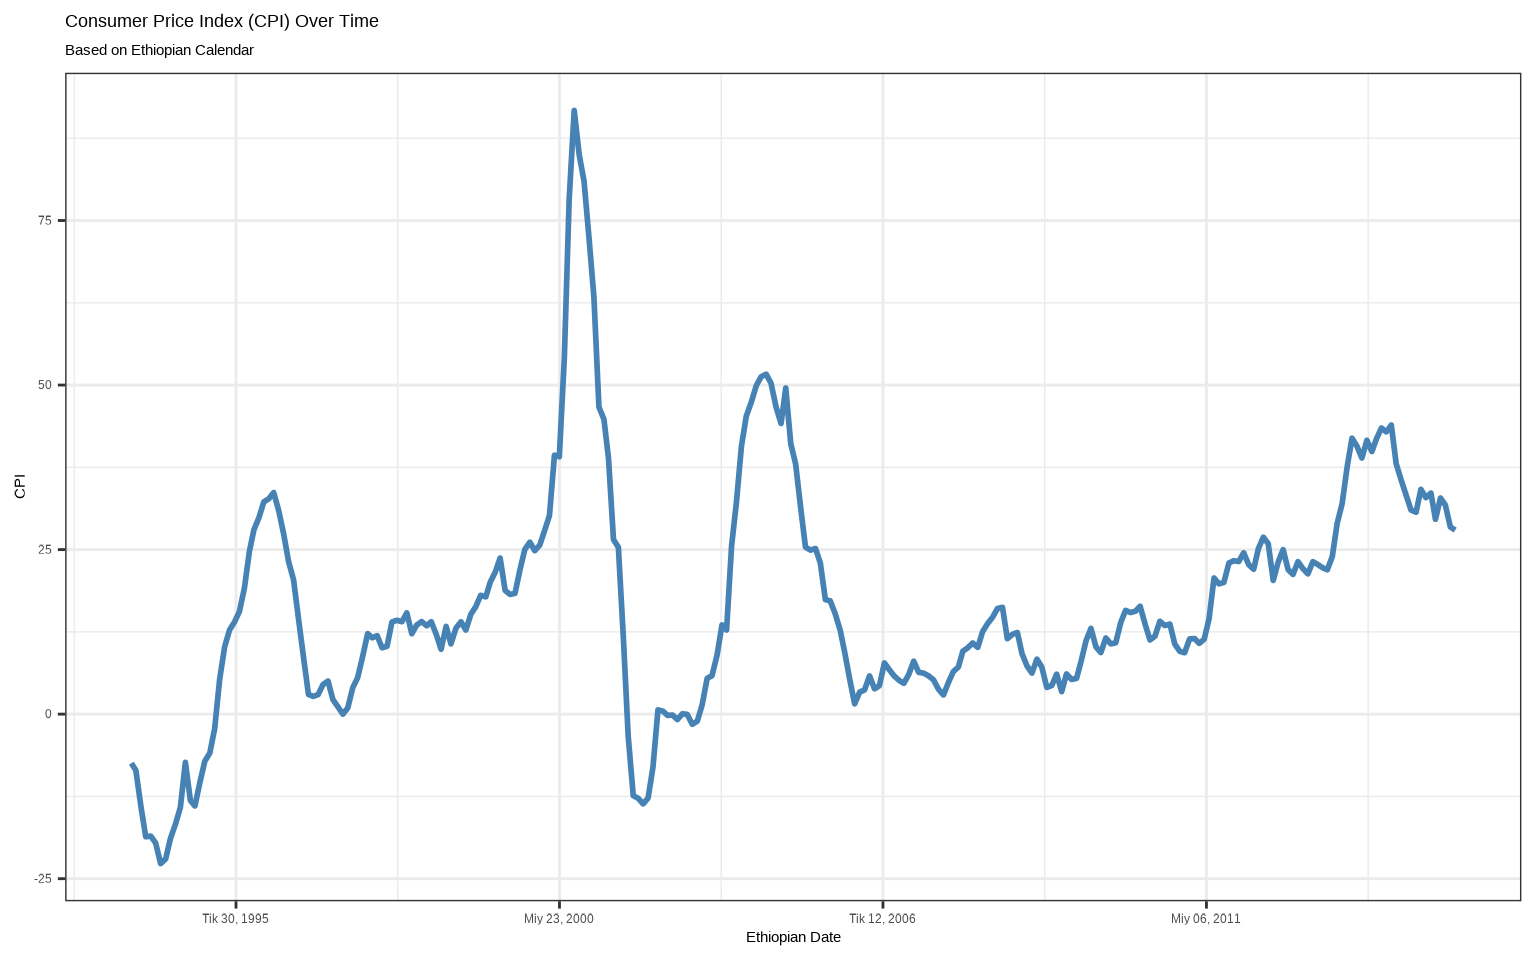
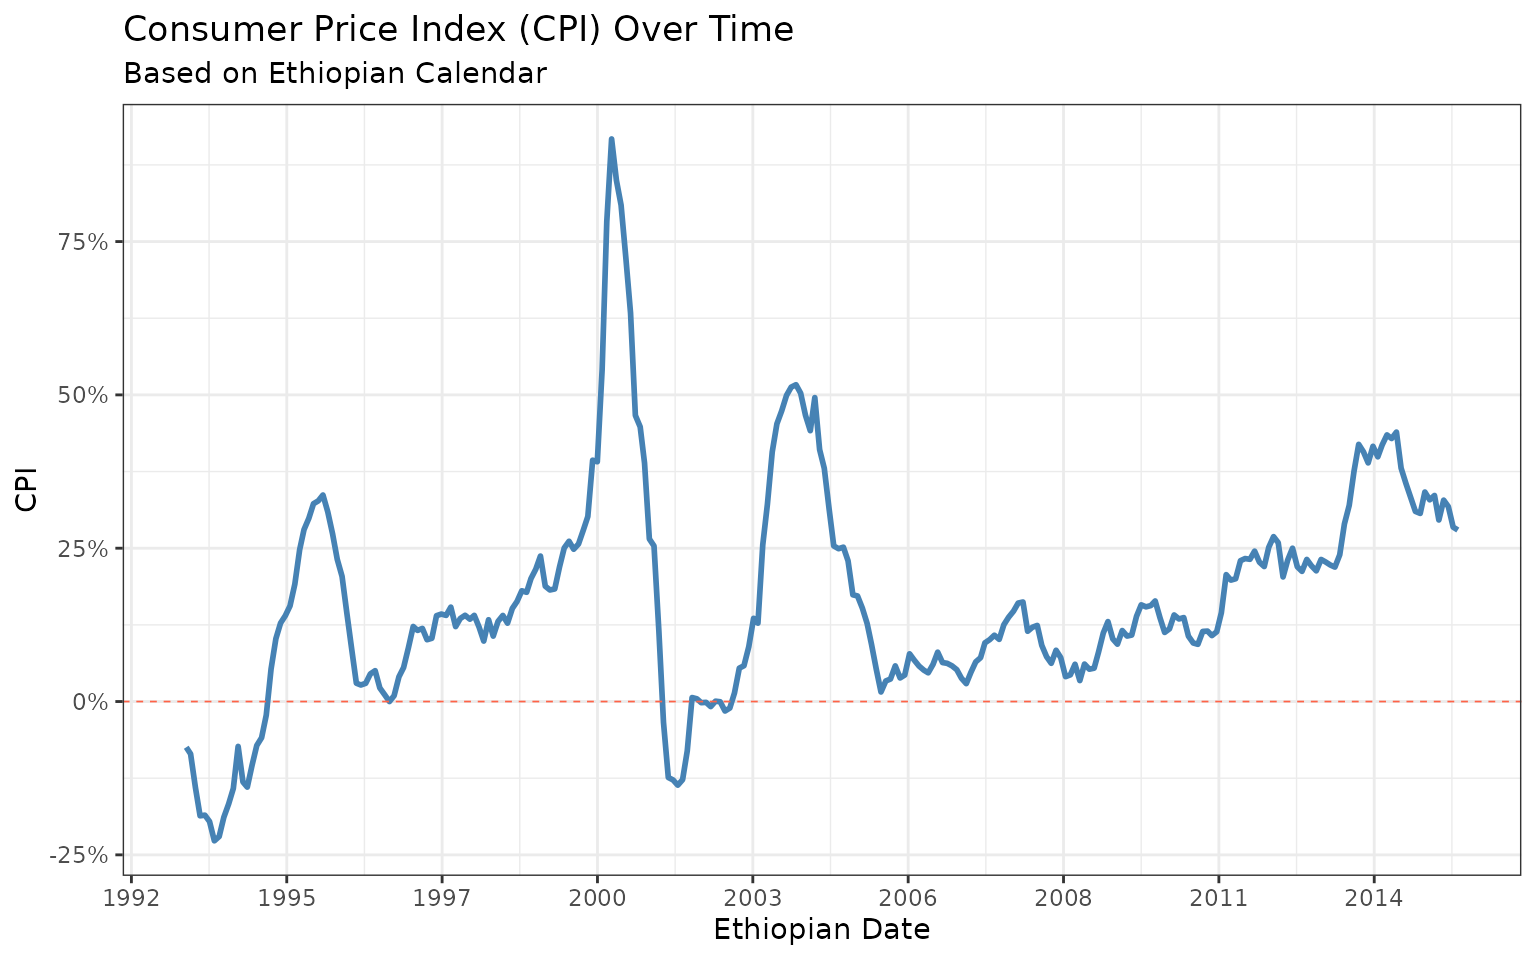
Deploying to gh-pages from @ GutUrago/ethiodate@056ab6d0eb4e3ad7c6320487f609c9a954fcff3f 🚀

diff --git a/articles/ggplot.html b/articles/ggplot.html
@@ -111,12 +111,6 @@ Consumer Price Index (CPI) data from 2001 onward.</p>
 <code class="sourceCode R"><span><span class="kw"><a href="https://rdrr.io/r/base/library.html" class="external-link">library</a></span><span class="op">(</span><span class="va"><a href="https://guturago.github.io/ethiodate/">ethiodate</a></span><span class="op">)</span></span>
 <span><span class="kw"><a href="https://rdrr.io/r/base/library.html" class="external-link">library</a></span><span class="op">(</span><span class="va"><a href="https://ggplot2.tidyverse.org" class="external-link">ggplot2</a></span><span class="op">)</span></span>
 <span><span class="kw"><a href="https://rdrr.io/r/base/library.html" class="external-link">library</a></span><span class="op">(</span><span class="va"><a href="https://dplyr.tidyverse.org" class="external-link">dplyr</a></span><span class="op">)</span></span>
-<span></span>
-<span><span class="kw"><a href="https://rdrr.io/r/base/library.html" class="external-link">library</a></span><span class="op">(</span><span class="va"><a href="https://github.com/yixuan/showtext" class="external-link">showtext</a></span><span class="op">)</span></span>
-<span><span class="kw"><a href="https://rdrr.io/r/base/library.html" class="external-link">library</a></span><span class="op">(</span><span class="va"><a href="https://github.com/yixuan/sysfonts" class="external-link">sysfonts</a></span><span class="op">)</span></span>
-<span><span class="fu"><a href="https://rdrr.io/pkg/sysfonts/man/font_add_google.html" class="external-link">font_add_google</a></span><span class="op">(</span><span class="st">"Noto Serif Ethiopic"</span><span class="op">)</span></span>
-<span><span class="fu"><a href="https://rdrr.io/pkg/showtext/man/showtext_auto.html" class="external-link">showtext_auto</a></span><span class="op">(</span><span class="op">)</span></span>
-<span></span>
 <span><span class="fu"><a href="https://rdrr.io/r/utils/head.html" class="external-link">head</a></span><span class="op">(</span><span class="va">cpieth</span><span class="op">)</span></span>
 <span><span class="co">#&gt; <span style="color: #949494;"># A tibble: 6 × 2</span></span></span>
 <span><span class="co">#&gt;   date          cpi</span></span>
@@ -154,7 +148,7 @@ different components of the date like year, month, and quarter</p>
 <span>  <span class="fu"><a href="https://ggplot2.tidyverse.org/reference/ggtheme.html" class="external-link">theme_bw</a></span><span class="op">(</span><span class="op">)</span></span>
 <span></span>
 <span><span class="va">p</span></span></code></pre></div>
-<p><img src="ggplot_files/figure-html/unnamed-chunk-4-1.png" width="768"></p>
+<p><img src="ggplot_files/figure-html/unnamed-chunk-3-1.png" width="768"></p>
 <p>What makes this plot powerful is that we’re using
 the<code>ethdate</code> object directly on the x-axis. There’s no need
 to manually convert or relabel — it just works.</p>
@@ -176,7 +170,7 @@ reference</li>
 <span>                  labels <span class="op">=</span> <span class="fu"><a href="../reference/ethdate-ggplot.html">eth_labels</a></span><span class="op">(</span><span class="st">"%Y"</span><span class="op">)</span><span class="op">)</span> <span class="op">+</span> </span>
 <span>  <span class="fu"><a href="https://ggplot2.tidyverse.org/reference/scale_continuous.html" class="external-link">scale_y_continuous</a></span><span class="op">(</span>labels <span class="op">=</span> <span class="fu">scales</span><span class="fu">::</span><span class="fu"><a href="https://scales.r-lib.org/reference/label_percent.html" class="external-link">label_percent</a></span><span class="op">(</span>scale <span class="op">=</span> <span class="fl">1</span><span class="op">)</span><span class="op">)</span> <span class="op">+</span> </span>
 <span>  <span class="fu"><a href="https://ggplot2.tidyverse.org/reference/geom_abline.html" class="external-link">geom_hline</a></span><span class="op">(</span>yintercept <span class="op">=</span> <span class="fl">0</span>, linewidth <span class="op">=</span> <span class="fl">0.3</span>, linetype <span class="op">=</span> <span class="fl">2</span>, color <span class="op">=</span> <span class="st">"tomato"</span><span class="op">)</span></span></code></pre></div>
-<p><img src="ggplot_files/figure-html/unnamed-chunk-5-1.png" width="768"></p>
+<p><img src="ggplot_files/figure-html/unnamed-chunk-4-1.png" width="768"></p>
 <p>This gives you a clean, elegant time series plot that speaks directly
 to Ethiopian policymakers and economists.</p>
 </div>
@@ -190,17 +184,15 @@ years:</p>
 <span>  <span class="fu"><a href="https://dplyr.tidyverse.org/reference/filter.html" class="external-link">filter</a></span><span class="op">(</span><span class="va">eyear</span> <span class="op">&gt;</span> <span class="fl">2005</span> <span class="op">&amp;</span> <span class="va">eyear</span> <span class="op">&lt;</span> <span class="fl">2015</span><span class="op">)</span> <span class="op">|&gt;</span> </span>
 <span>  <span class="fu"><a href="https://ggplot2.tidyverse.org/reference/ggplot.html" class="external-link">ggplot</a></span><span class="op">(</span><span class="fu"><a href="https://ggplot2.tidyverse.org/reference/aes.html" class="external-link">aes</a></span><span class="op">(</span>x <span class="op">=</span> <span class="va">emonth</span>, y <span class="op">=</span> <span class="va">cpi</span>, group <span class="op">=</span> <span class="va">eyear</span>, color <span class="op">=</span> <span class="fu"><a href="https://rdrr.io/r/base/factor.html" class="external-link">factor</a></span><span class="op">(</span><span class="va">eyear</span><span class="op">)</span><span class="op">)</span><span class="op">)</span> <span class="op">+</span></span>
 <span>  <span class="fu"><a href="https://ggplot2.tidyverse.org/reference/geom_path.html" class="external-link">geom_line</a></span><span class="op">(</span><span class="op">)</span> <span class="op">+</span></span>
-<span>  <span class="fu"><a href="https://ggplot2.tidyverse.org/reference/scale_continuous.html" class="external-link">scale_x_continuous</a></span><span class="op">(</span>breaks <span class="op">=</span> <span class="fl">1</span><span class="op">:</span><span class="fl">13</span>, labels <span class="op">=</span> <span class="fu"><a href="../reference/eth_show.html">eth_show</a></span><span class="op">(</span>lang <span class="op">=</span> <span class="st">"amh"</span><span class="op">)</span><span class="op">)</span> <span class="op">+</span></span>
+<span>  <span class="fu"><a href="https://ggplot2.tidyverse.org/reference/scale_continuous.html" class="external-link">scale_x_continuous</a></span><span class="op">(</span>breaks <span class="op">=</span> <span class="fl">1</span><span class="op">:</span><span class="fl">13</span>, labels <span class="op">=</span> <span class="fu"><a href="../reference/eth_show.html">eth_show</a></span><span class="op">(</span>lang <span class="op">=</span> <span class="st">"lat"</span><span class="op">)</span><span class="op">)</span> <span class="op">+</span></span>
 <span>  <span class="fu"><a href="https://ggplot2.tidyverse.org/reference/scale_continuous.html" class="external-link">scale_y_continuous</a></span><span class="op">(</span>labels <span class="op">=</span> <span class="fu">scales</span><span class="fu">::</span><span class="fu"><a href="https://scales.r-lib.org/reference/label_percent.html" class="external-link">label_percent</a></span><span class="op">(</span>scale <span class="op">=</span> <span class="fl">1</span><span class="op">)</span><span class="op">)</span> <span class="op">+</span></span>
 <span>  <span class="fu"><a href="https://ggplot2.tidyverse.org/reference/labs.html" class="external-link">labs</a></span><span class="op">(</span>title <span class="op">=</span> <span class="st">"CPI Seasonality by Ethiopian Year"</span>,</span>
 <span>       x <span class="op">=</span> <span class="st">"Month"</span>, y <span class="op">=</span> <span class="st">"CPI"</span>, color <span class="op">=</span> <span class="st">"Year"</span><span class="op">)</span> <span class="op">+</span></span>
 <span>  <span class="fu"><a href="https://ggplot2.tidyverse.org/reference/ggtheme.html" class="external-link">theme_bw</a></span><span class="op">(</span><span class="op">)</span> <span class="op">+</span> </span>
-<span>  <span class="fu"><a href="https://ggplot2.tidyverse.org/reference/theme.html" class="external-link">theme</a></span><span class="op">(</span>axis.text.x <span class="op">=</span> <span class="fu"><a href="https://ggplot2.tidyverse.org/reference/element.html" class="external-link">element_text</a></span><span class="op">(</span></span>
-<span>    family <span class="op">=</span> <span class="st">"Noto Serif Ethiopic"</span>,</span>
-<span>    angle <span class="op">=</span> <span class="fl">45</span>, vjust <span class="op">=</span> <span class="fl">0.9</span>, hjust <span class="op">=</span> <span class="fl">1</span>, colour <span class="op">=</span> <span class="st">"black"</span><span class="op">)</span><span class="op">)</span></span>
+<span>  <span class="fu"><a href="https://ggplot2.tidyverse.org/reference/theme.html" class="external-link">theme</a></span><span class="op">(</span>axis.text.x <span class="op">=</span> <span class="fu"><a href="https://ggplot2.tidyverse.org/reference/element.html" class="external-link">element_text</a></span><span class="op">(</span>angle <span class="op">=</span> <span class="fl">45</span>, vjust <span class="op">=</span> <span class="fl">0.9</span>, hjust <span class="op">=</span> <span class="fl">1</span>, colour <span class="op">=</span> <span class="st">"black"</span><span class="op">)</span><span class="op">)</span></span>
 <span></span>
 <span><span class="va">p1</span></span></code></pre></div>
-<p><img src="ggplot_files/figure-html/unnamed-chunk-6-1.png" width="768"></p>
+<p><img src="ggplot_files/figure-html/unnamed-chunk-5-1.png" width="768"></p>
 <p>What we see here is how CPI values shift month-to-month, year-by-year
 — with full support for the Ethiopian year. And by adding Amharic month
 labels with <code>eth_show(lang = "amh")</code>, we speak the language
@@ -217,14 +209,14 @@ patterns:</p>
 <span>  <span class="fu"><a href="https://ggplot2.tidyverse.org/reference/ggplot.html" class="external-link">ggplot</a></span><span class="op">(</span><span class="fu"><a href="https://ggplot2.tidyverse.org/reference/aes.html" class="external-link">aes</a></span><span class="op">(</span>x <span class="op">=</span> <span class="fu"><a href="https://rdrr.io/r/base/factor.html" class="external-link">factor</a></span><span class="op">(</span><span class="va">emonth</span><span class="op">)</span>, y <span class="op">=</span> <span class="fu"><a href="https://rdrr.io/r/base/factor.html" class="external-link">factor</a></span><span class="op">(</span><span class="va">eyear</span><span class="op">)</span>, fill <span class="op">=</span> <span class="va">cpi</span><span class="op">)</span><span class="op">)</span> <span class="op">+</span></span>
 <span>  <span class="fu"><a href="https://ggplot2.tidyverse.org/reference/geom_tile.html" class="external-link">geom_tile</a></span><span class="op">(</span>color <span class="op">=</span> <span class="st">"white"</span><span class="op">)</span> <span class="op">+</span></span>
 <span>  <span class="fu"><a href="https://ggplot2.tidyverse.org/reference/scale_viridis.html" class="external-link">scale_fill_viridis_c</a></span><span class="op">(</span>labels <span class="op">=</span> <span class="fu">scales</span><span class="fu">::</span><span class="fu"><a href="https://scales.r-lib.org/reference/label_percent.html" class="external-link">label_percent</a></span><span class="op">(</span>scale <span class="op">=</span> <span class="fl">1</span><span class="op">)</span><span class="op">)</span> <span class="op">+</span></span>
-<span>  <span class="fu"><a href="https://ggplot2.tidyverse.org/reference/scale_discrete.html" class="external-link">scale_x_discrete</a></span><span class="op">(</span>labels <span class="op">=</span> <span class="fu"><a href="../reference/eth_show.html">eth_show</a></span><span class="op">(</span><span class="st">"%b"</span>, <span class="st">"amh"</span><span class="op">)</span><span class="op">)</span> <span class="op">+</span></span>
+<span>  <span class="fu"><a href="https://ggplot2.tidyverse.org/reference/scale_discrete.html" class="external-link">scale_x_discrete</a></span><span class="op">(</span>labels <span class="op">=</span> <span class="fu"><a href="../reference/eth_show.html">eth_show</a></span><span class="op">(</span><span class="st">"%b"</span>, <span class="st">"lat"</span><span class="op">)</span><span class="op">)</span> <span class="op">+</span></span>
 <span>  <span class="fu"><a href="https://ggplot2.tidyverse.org/reference/labs.html" class="external-link">labs</a></span><span class="op">(</span>title <span class="op">=</span> <span class="st">"Monthly CPI Heatmap"</span>,</span>
 <span>       x <span class="op">=</span> <span class="st">"Ethiopian Month"</span>, y <span class="op">=</span> <span class="st">"Ethiopian Year"</span>, fill <span class="op">=</span> <span class="st">"CPI"</span><span class="op">)</span> <span class="op">+</span></span>
 <span>  <span class="fu"><a href="https://ggplot2.tidyverse.org/reference/ggtheme.html" class="external-link">theme_bw</a></span><span class="op">(</span><span class="op">)</span> <span class="op">+</span> </span>
-<span>  <span class="fu"><a href="https://ggplot2.tidyverse.org/reference/theme.html" class="external-link">theme</a></span><span class="op">(</span>axis.text.x <span class="op">=</span> <span class="fu"><a href="https://ggplot2.tidyverse.org/reference/element.html" class="external-link">element_text</a></span><span class="op">(</span>family <span class="op">=</span> <span class="st">"Noto Serif Ethiopic"</span>, colour <span class="op">=</span> <span class="st">"black"</span><span class="op">)</span><span class="op">)</span></span>
+<span>  <span class="fu"><a href="https://ggplot2.tidyverse.org/reference/theme.html" class="external-link">theme</a></span><span class="op">(</span>axis.text.x <span class="op">=</span> <span class="fu"><a href="https://ggplot2.tidyverse.org/reference/element.html" class="external-link">element_text</a></span><span class="op">(</span>colour <span class="op">=</span> <span class="st">"black"</span><span class="op">)</span><span class="op">)</span></span>
 <span></span>
 <span><span class="va">p2</span></span></code></pre></div>
-<p><img src="ggplot_files/figure-html/unnamed-chunk-7-1.png" width="768"></p>
+<p><img src="ggplot_files/figure-html/unnamed-chunk-6-1.png" width="768"></p>
 <p>Heatmaps are excellent for revealing spikes, drops, and anomalies. In
 just one frame, you can identify patterns like seasonal inflation or
 economic shocks. The Ethiopian months are elegantly handled, and the
@@ -250,7 +242,7 @@ ethiodate — no need for hardcoded date logic.</p>
 <span>       x <span class="op">=</span> <span class="st">"Ethiopian Quarter"</span>, y <span class="op">=</span> <span class="st">"Average CPI"</span><span class="op">)</span> <span class="op">+</span></span>
 <span>  <span class="fu"><a href="https://ggplot2.tidyverse.org/reference/ggtheme.html" class="external-link">theme_bw</a></span><span class="op">(</span><span class="op">)</span> <span class="op">+</span></span>
 <span>  <span class="fu"><a href="https://ggplot2.tidyverse.org/reference/theme.html" class="external-link">theme</a></span><span class="op">(</span>axis.text.x <span class="op">=</span> <span class="fu"><a href="https://ggplot2.tidyverse.org/reference/element.html" class="external-link">element_text</a></span><span class="op">(</span>angle <span class="op">=</span> <span class="fl">45</span>, vjust <span class="op">=</span> <span class="fl">1</span>, hjust<span class="op">=</span><span class="fl">1</span><span class="op">)</span><span class="op">)</span></span></code></pre></div>
-<p><img src="ggplot_files/figure-html/unnamed-chunk-8-1.png" width="768"></p>
+<p><img src="ggplot_files/figure-html/unnamed-chunk-7-1.png" width="768"></p>
 </div>
 <div class="section level2">
 <h2 id="summary">Summary<a class="anchor" aria-label="anchor" href="#summary"></a>

diff --git a/reference/eth_show.html b/reference/eth_show.html
@@ -113,7 +113,7 @@
 <span class="r-in"><span><span class="fu">eth_today</span><span class="op">(</span><span class="op">)</span></span></span>
 <span class="r-out co"><span class="r-pr">#&gt;</span> [1] "2017-10-18"</span>
 <span class="r-in"><span><span class="fu">eth_now</span><span class="op">(</span><span class="op">)</span></span></span>
-<span class="r-out co"><span class="r-pr">#&gt;</span> [1] "2017-10-18 05:34:20 PM"</span>
+<span class="r-out co"><span class="r-pr">#&gt;</span> [1] "2017-10-18 05:43:32 PM"</span>
 <span class="r-in"><span></span></span>
 </code></pre></div>
     </div>
